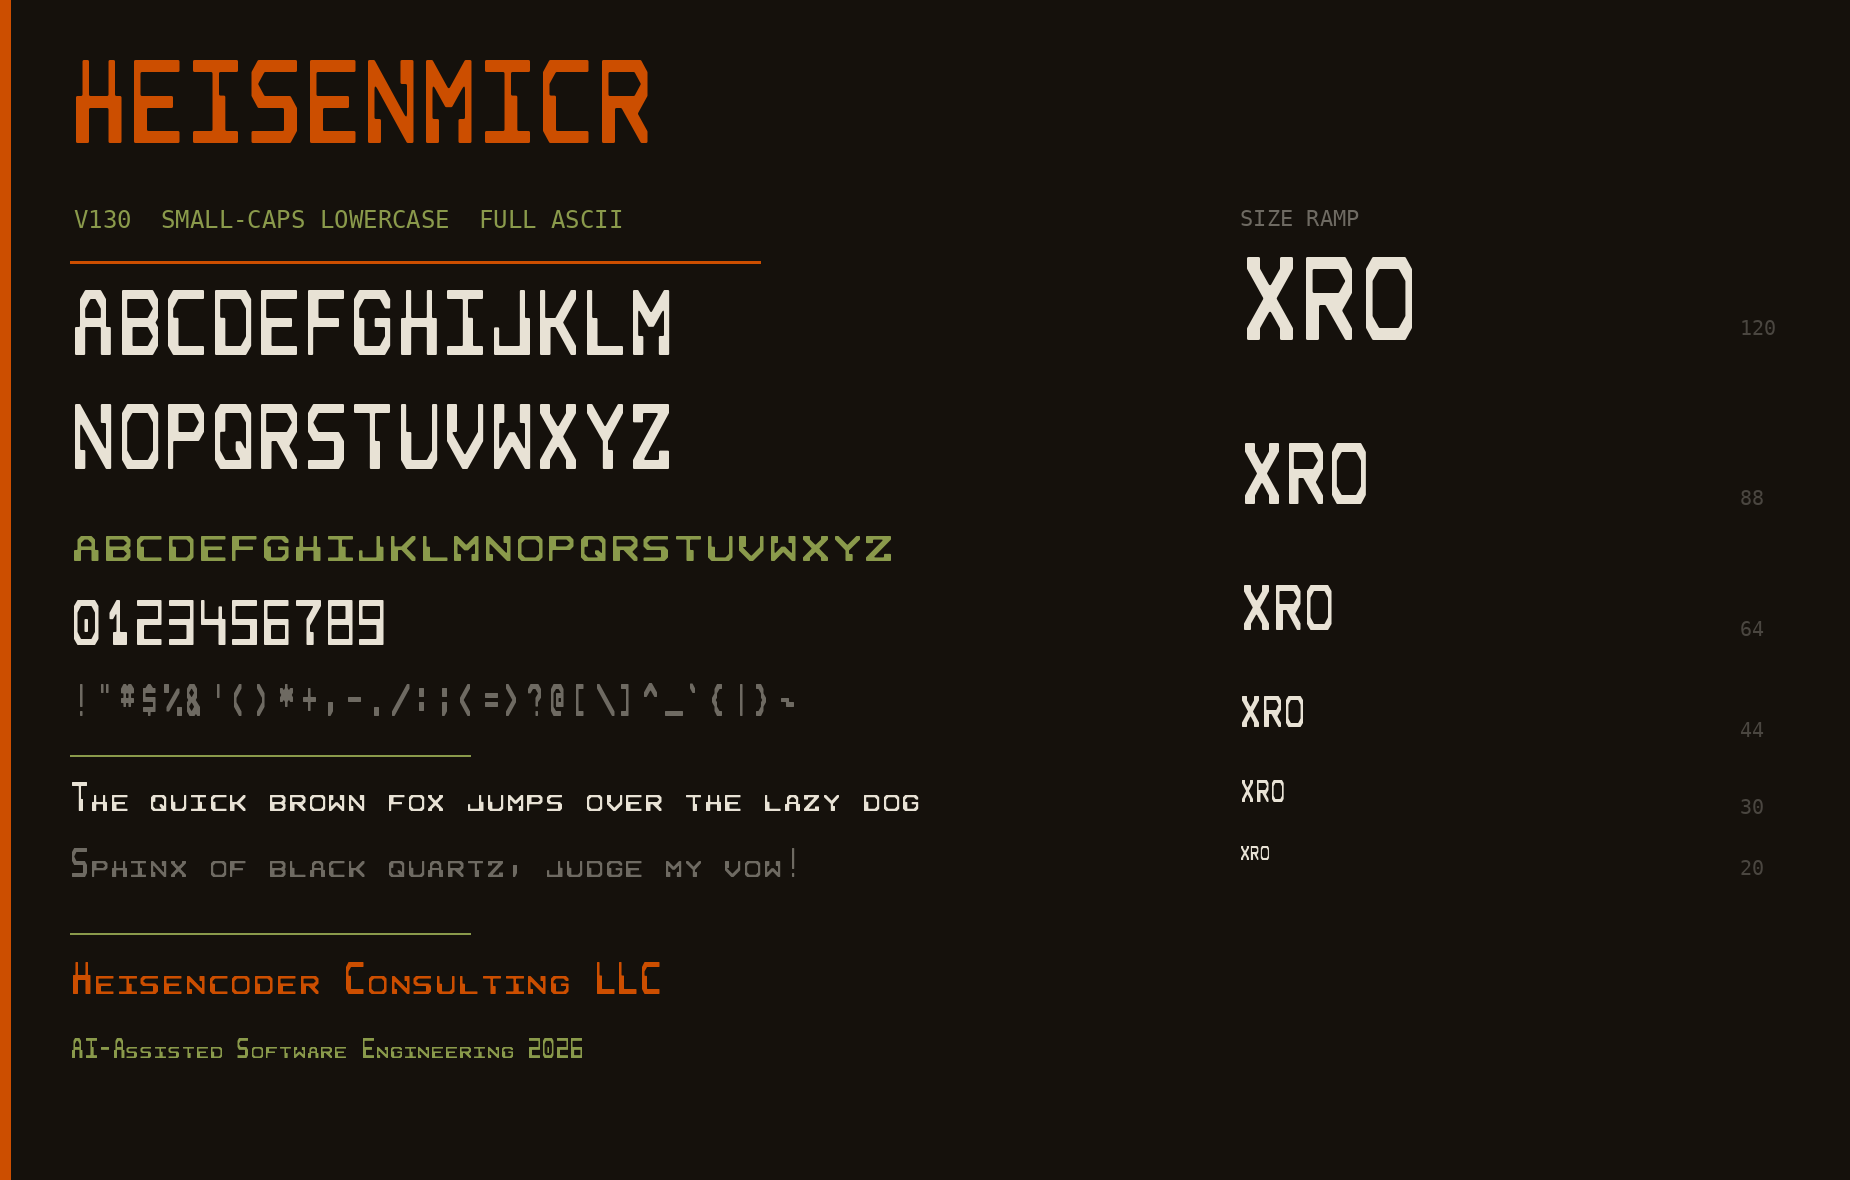
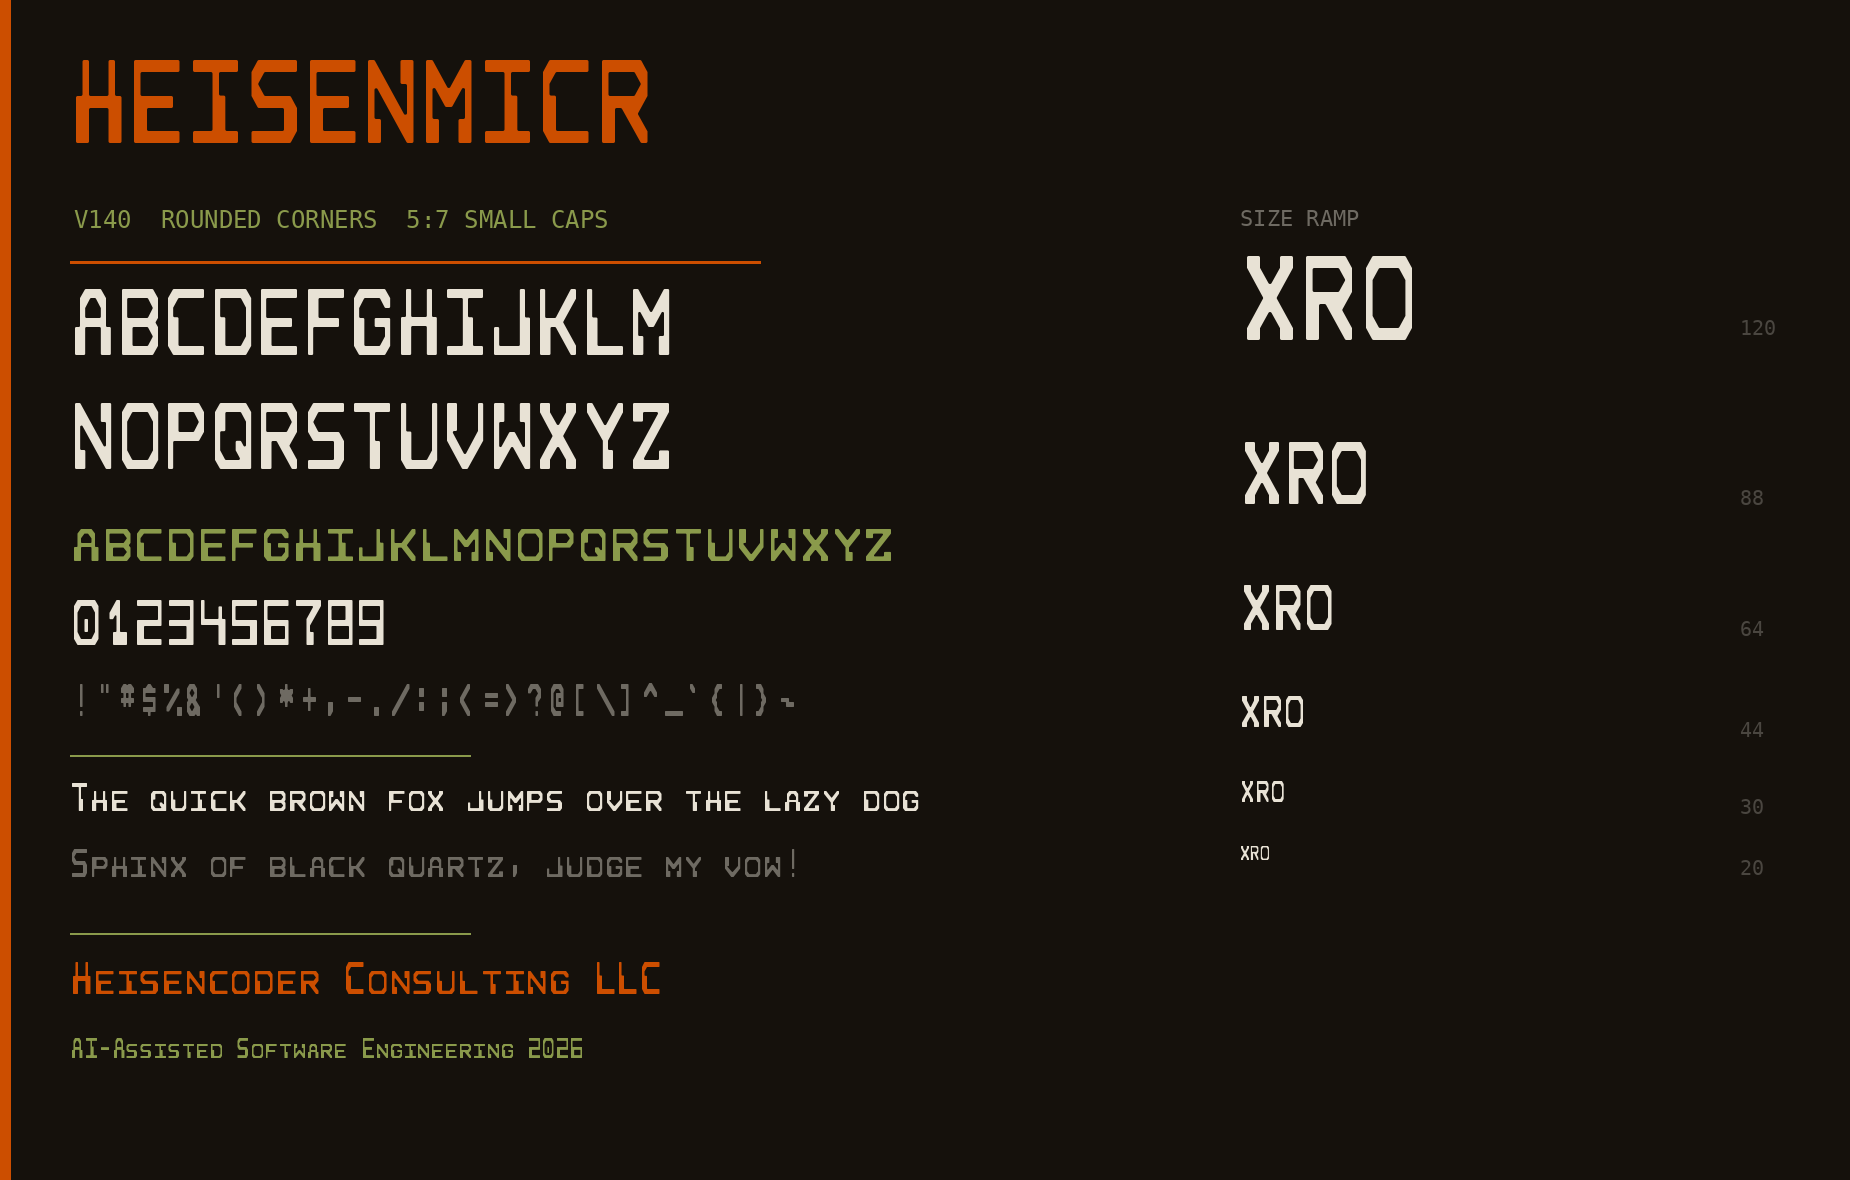
Standalone spec, true circular-arc rounding, taller small caps
Spec (HeisenMICR.md):
- Rewrite as a self-contained, implementation-agnostic description (no
  references to any Python file) that someone could reimplement from in any
  language: design grid, metrics, construction rules, and invariants.
- Note the lineage: inspired by the Moore Computer typeface (1968), itself an
  alphabetic extension of the E-13B MICR font banks print on checks.

Rounding (build.py):
- The old single-quadratic-at-the-vertex fillet renders a parabola tighter
  than the nominal radius, so corners were under-rounded. Replace it with a
  true circular arc drawn as two quadratics per corner, so the corner radius
  is actually 1/4 of a module width (W/4).

Lowercase (build.py):
- Raise the small-cap x-height from 385 (5/9 of the cap height) to 495, i.e.
  5/7 of the cap height, per request. Lowercase module is now 55x70.71 (9:7).

Font is v1.400; test.py + pytest pass for all 68 defined glyphs; specimen
regenerated.

diff --git a/heisenmicr/build.py b/heisenmicr/build.py
@@ -7,7 +7,8 @@ Pipeline per glyph:
   2. Each diagonal join pair -> parallelogram band across the shared corner
      (pure staircases, diagonals into stems, and outer corner bevels)
   3. skia-pathops simplify (union, fixed winding) -> clean non-overlapping outline
-  4. Fillet every corner with a quadratic Bezier, radius 14 (~1/4 cell width)
+  4. Round every corner with a circular-arc fillet of radius W/4 (a quarter cell
+     width), rendered as two quadratic Beziers per corner
   5. TTGlyphPen -> glyf
 
 Lowercase is derived from the uppercase grids; only A-Z, the digits and the
@@ -27,15 +28,15 @@ from spec import (parse_spec, pure_diagonal_pairs, stem_junction_pairs,
 
 # ── Geometry constants ──────────────────────────────────────────
 W, H = 55, 99            # uppercase cell, 1.8:1 exact
-LOWER_H = 55             # lowercase cell, 1:1 (small caps in the bottom square)
 XOFF = 55                # left side bearing = 1 cell (2-cell total gap)
 ADV = 9 * W              # 495: 7-cell body + 2-cell gap
 CAP = 7 * H              # 693 cap height
-XHEIGHT = 7 * LOWER_H    # 385 small-cap height
-R_FILLET = 14            # ~1/4 of cell width
+XHEIGHT = 5 * H          # 495 small-cap height = 5/7 of the cap height
+LOWER_H = XHEIGHT / 7    # lowercase cell height (width stays W)
+R_FILLET = W / 4         # corner radius = 1/4 of a cell width
 
 OUT = str(Path(__file__).with_name("HeisenMICR.ttf"))
-VERSION = "1.300"
+VERSION = "1.400"
 
 
 def cell_rect(r, c, h=H):
@@ -92,11 +93,23 @@ def union_contours(polys):
     return contours
 
 
-def fillet_contour(pts, radius):
-    """Round each corner with a quadratic Bezier (control at the vertex).
+def _line_intersect(p1, d1, p2, d2):
+    """Intersection of line (p1, dir d1) with line (p2, dir d2)."""
+    denom = d1[0] * d2[1] - d1[1] * d2[0]
+    if abs(denom) < 1e-9:                         # parallel: midpoint fallback
+        return ((p1[0] + p2[0]) / 2.0, (p1[1] + p2[1]) / 2.0)
+    s = ((p2[0] - p1[0]) * d2[1] - (p2[1] - p1[1]) * d2[0]) / denom
+    return (p1[0] + s * d1[0], p1[1] + s * d1[1])
 
-    Returns list of (point, on_curve) tuples for TTGlyphPen.
-    Tangent offset t = radius / tan(theta/2), clamped to 40% of either edge.
+
+def fillet_contour(pts, radius):
+    """Round each corner with a true circular arc of the given radius.
+
+    The arc is rendered as two quadratic Beziers (an accurate approximation of a
+    circular arc up to ~180 degrees, unlike a single control-at-the-vertex
+    quadratic, which is noticeably tighter than the nominal radius). Returns a
+    list of (point, on_curve) tuples for a TrueType quadratic pen. The tangent
+    length is radius / tan(interior_angle / 2), clamped to half of either edge.
     """
     n = len(pts)
     out = []
@@ -111,21 +124,32 @@ def fillet_contour(pts, radius):
         if l0 < 1e-6 or l1 < 1e-6:
             out.append((v, True))
             continue
-        u0 = (e0[0] / l0, e0[1] / l0)
-        u1 = (e1[0] / l1, e1[1] / l1)
-        # interior turn angle
+        u0 = (e0[0] / l0, e0[1] / l0)              # unit incoming edge
+        u1 = (e1[0] / l1, e1[1] / l1)              # unit outgoing edge
         cosang = max(-1.0, min(1.0, -(u0[0] * u1[0] + u0[1] * u1[1])))
-        theta = math.acos(cosang)
-        if theta > math.pi - 0.05:     # nearly straight: keep as-is
+        theta = math.acos(cosang)                  # interior angle at the corner
+        if theta > math.pi - 0.05:                 # nearly straight: keep vertex
             out.append((v, True))
             continue
-        t = radius / math.tan(theta / 2)
-        t = min(t, 0.4 * l0, 0.4 * l1)
-        a = (v[0] - u0[0] * t, v[1] - u0[1] * t)   # entry tangent point
-        b = (v[0] + u1[0] * t, v[1] + u1[1] * t)   # exit tangent point
-        out.append((a, True))
-        out.append((v, False))                      # off-curve control
-        out.append((b, True))
+        half = theta / 2.0
+        t = min(radius / math.tan(half), 0.5 * l0, 0.5 * l1)  # tangent length
+        r = t * math.tan(half)                     # radius after any clamp
+        a = (v[0] - u0[0] * t, v[1] - u0[1] * t)   # arc entry, on incoming edge
+        b = (v[0] + u1[0] * t, v[1] + u1[1] * t)   # arc exit, on outgoing edge
+        # arc centre: radius r inward of the incoming edge at a
+        cross = u0[0] * u1[1] - u0[1] * u1[0]
+        nrm = (-u0[1], u0[0]) if cross >= 0 else (u0[1], -u0[0])
+        o = (a[0] + r * nrm[0], a[1] + r * nrm[1])
+        bis = (a[0] + b[0] - 2 * o[0], a[1] + b[1] - 2 * o[1])  # toward arc mid
+        blen = math.hypot(*bis)
+        if blen < 1e-6:                            # ~180 deg: single quadratic
+            out += [(a, True), (v, False), (b, True)]
+            continue
+        m = (o[0] + r * bis[0] / blen, o[1] + r * bis[1] / blen)  # arc midpoint
+        tm = (-(m[1] - o[1]), m[0] - o[0])         # tangent at m (perp to radius)
+        c1 = _line_intersect(a, u0, m, tm)
+        c2 = _line_intersect(m, tm, b, u1)
+        out += [(a, True), (c1, False), (m, True), (c2, False), (b, True)]
     return [((round(x), round(y)), on) for ((x, y), on) in out]
 
 

diff --git a/heisenmicr/specimen.py b/heisenmicr/specimen.py
@@ -19,7 +19,7 @@ GREEN = "#8A9A4B"
 GRAY = "#6E6A62"
 DIM = "#4A4640"
 
-SUBTITLE = "V130  SMALL-CAPS LOWERCASE  FULL ASCII"
+SUBTITLE = "V140  ROUNDED CORNERS  5:7 SMALL CAPS"
 PUNCT = "!\"#$%&'()*+,-./:;<=>?@[\\]^_`{|}~"
 
 

diff --git a/heisenmicr/HeisenMICR.md b/heisenmicr/HeisenMICR.md
@@ -1,54 +1,87 @@
 # HeisenMICR
 
-HeisenMICR is a monospaced, MICR-style display typeface. Every glyph is drawn on
-a **7×7 module grid**; in the sections below, `#` marks an inked module and a
-space marks an empty one — those two characters are all the grid needs. The
-grids are the single source of truth: `build.py` compiles them into
-`HeisenMICR.ttf` and `test.py` verifies each rendering against its grid.
+HeisenMICR is a monospaced, MICR-style display typeface. It is inspired by the
+**Moore Computer** typeface (1968) — itself an alphabetic extension of **E-13B**,
+the magnetic-ink character-recognition (MICR) font that banks print along the
+bottom edge of checks. Where E-13B defines only the ten digits and a few control
+symbols, HeisenMICR carries the same blocky, machine-read look across the full
+set of letters, digits, and ASCII punctuation.
+
+This document is the complete and self-contained specification of the typeface:
+the grids below define the shapes, and the sections that follow define the
+metrics and the construction rules. Any implementation that follows them — in
+any language or tool — will reproduce the font.
+
+## The design grid
+
+Every glyph is drawn on a **7×7 grid of square modules**. In each grid below,
+`#` marks an inked module and a space marks an empty one; those two characters
+are all that is needed. Rows read top to bottom, columns left to right. Only the
+capitals A–Z, the digits 0–9, and the ASCII punctuation are drawn here — the
+lowercase letters are derived from the capitals (see *Metrics*), and the space
+character is an empty glyph.
 
 ## Metrics
 
-The font is drawn on a **1000-unit em**. Each module of an uppercase glyph is
-**55 units wide × 99 units tall** (a 1.8∶1 height-to-width ratio), so the **cap
-height** is 7 modules = 693 units and the glyph rests on the **baseline** at the
-bottom row of the grid. Every glyph is **monospaced** with an **advance width**
-of 9 modules = 495 units: the 7-module body carries a one-module **side bearing**
-on the left and right, leaving a two-module gap between adjacent glyphs.
+All coordinates are given in font units on a **1000-unit em**.
 
-**Lowercase** letters are **small caps** — the same 7×7 grids as the capitals,
-but set on a **1∶1 module** (55×55 units) so they fill the bottom square of the
-uppercase area, from the baseline up to a 385-unit **x-height**. They are
-derived from the capitals, so only A–Z, the digits, and the ASCII punctuation
-are drawn below; the space glyph is empty.
+- **Module.** An uppercase module is **55 units wide × 99 units tall**, a
+  height-to-width ratio of **9∶5** (1.8). The extra height is what gives the
+  face its tall, MICR-like proportions.
+- **Cap height & baseline.** A capital fills all seven rows, so the **cap
+  height** is 7 × 99 = **693 units**. Glyphs sit on the **baseline** at the
+  bottom of the grid.
+- **Advance width.** The face is **monospaced**. The 7-module body (7 × 55 =
+  385 units) is inset by a one-module **side bearing** on each side, for an
+  **advance width** of 9 × 55 = **495 units** — a full one-module gap on either
+  side, so adjacent glyphs are separated by two modules.
+- **Lowercase (small caps).** Lowercase letters reuse the capitals' grids,
+  scaled vertically so the whole seven-row glyph stands at an **x-height** of
+  **5/7 of the cap height** = **495 units**. Their module keeps the full 55-unit
+  width, so a lowercase module is 55 × 70.71 units (ratio **9∶7**, ≈1.29). Like
+  capitals, they rest on the baseline.
 
-## Rendering
+## Construction
 
-Each glyph outline is constructed from its grid:
+Each glyph outline is built from its grid as follows.
 
-1. Every inked module becomes a rectangle.
-2. **Diagonal joins** — where inked modules meet only at a corner, a slanted
-   band bridges them so a staircase renders as one straight diagonal stroke
-   (its slope is the module ratio: 1.8 for capitals, 1 for the square small
-   caps). The same join lets a diagonal **run into a stem** without
-   stair-stepping, and **bevels a stepped corner** on a glyph's outer edge into
-   a single diagonal.
-3. The rectangles and bands are combined with a **boolean union** into
-   non-overlapping contours.
-4. Every corner is **rounded** with a fillet of radius 14 units (about a quarter
-   of a module width).
+1. **Modules.** Every inked module becomes a filled rectangle (55 units wide by
+   the module height).
+2. **Diagonal joins.** Two inked modules that touch only at a corner (a diagonal
+   step) are bridged by a parallelogram *band* laid across that shared corner,
+   with long edges at the module's own slope (height ÷ width: 9∶5 for capitals,
+   9∶7 for small caps). A run of such steps therefore reads as one straight
+   diagonal stroke instead of a staircase. A band is added in three cases:
+   - **Free diagonal:** the two modules orthogonally between the pair are both
+     empty (an isolated diagonal, as in the arms of `X` or the slash of `Z`).
+   - **Into a stem:** exactly one of those two modules is filled (a stem), and
+     the step continues an existing free-diagonal run — so the diagonal meets
+     the stem cleanly instead of stepping into it (as in `M`, `N`, `W`, `1`).
+   - **Corner bevel:** exactly one is filled, the empty one lies on the outer
+     edge of the grid, and the stroke reverses there rather than branching
+     onward — so an outer corner is cut to a single diagonal (the lower-right of
+     `B`, the upper-left of `Q`, the lower-left of `U`, the curves of `S`).
+3. **Union.** All rectangles and bands are merged into outline contours, with
+   overlaps removed, so nothing double-covers and no seam is left between
+   touching pieces.
+4. **Rounding.** Every corner of the resulting outline — inner and outer — is
+   rounded with a **circular arc whose radius is one quarter of the module
+   width** (≈13.75 units). Where an edge is too short to fit two full arcs, the
+   radius is reduced to fit.
 
-This yields one continuous **outer contour** per connected run of modules and
-one **inner contour** (counter) per enclosed empty region. A glyph may contain
-disconnected **islands** — for example, the two center modules of `0` float
-inside its counter.
+## Invariants
 
-## Assertions
+A correctly built glyph satisfies all of the following, which also serve as
+tests:
 
-`test.py` checks every glyph against its grid: re-unioning the outline is a
-no-op (no overlaps), edge- and diagonally-adjacent modules stay connected (no
-gaps), there is exactly one outer contour per solid component and one inner
-contour per enclosed hole, and the rasterized glyph inks exactly the grid's
-filled modules.
+- **No overlaps, no gaps.** Re-merging the finished outline changes nothing, and
+  modules that are edge- or diagonally-adjacent stay connected as one shape.
+- **One line per shape.** Each connected run of modules is bounded by exactly one
+  continuous **outer contour**, and each fully enclosed empty region by exactly
+  one **inner contour** (counter). Disconnected **islands** are allowed — for
+  example, the two center modules of `0` float inside its counter.
+- **Faithful to the grid.** Sampling the rendered glyph at each module's center
+  inks exactly the modules the grid marks with `#`.
 
 ## A
 

diff --git a/heisenmicr/README.md b/heisenmicr/README.md
@@ -3,13 +3,14 @@
 A monospaced MICR-style display font built programmatically from an ASCII-art
 spec, plus the tooling that compiles and verifies it.
 
-The spec ([`HeisenMICR.md`](HeisenMICR.md)) is the source of truth: each glyph is
-a 7×7 grid of `#` modules. The build pipeline turns each module into a rectangle
-(uppercase 1.8∶1, lowercase 1∶1 small caps), joins diagonally-adjacent modules
-with slanted bands, unions everything with skia-pathops, and rounds every corner
-with a fillet. It covers A–Z, digits, and ASCII punctuation; lowercase is derived
-from the capitals as small caps set in the bottom square. See the spec's
-top-matter for the full metrics and rendering rules.
+The spec ([`HeisenMICR.md`](HeisenMICR.md)) is the source of truth and a complete,
+implementation-agnostic description of the typeface: each glyph is a 7×7 grid of
+`#` modules. The build pipeline turns each module into a rectangle (uppercase
+9∶5), joins diagonally-adjacent modules with slanted bands, unions everything
+with skia-pathops, and rounds every corner with a quarter-module circular-arc
+fillet. It covers A–Z, digits, and ASCII punctuation; lowercase is derived from
+the capitals as small caps at 5/7 of the cap height. See the spec's top-matter
+for the full metrics and rendering rules.
 
 ## Layout
 